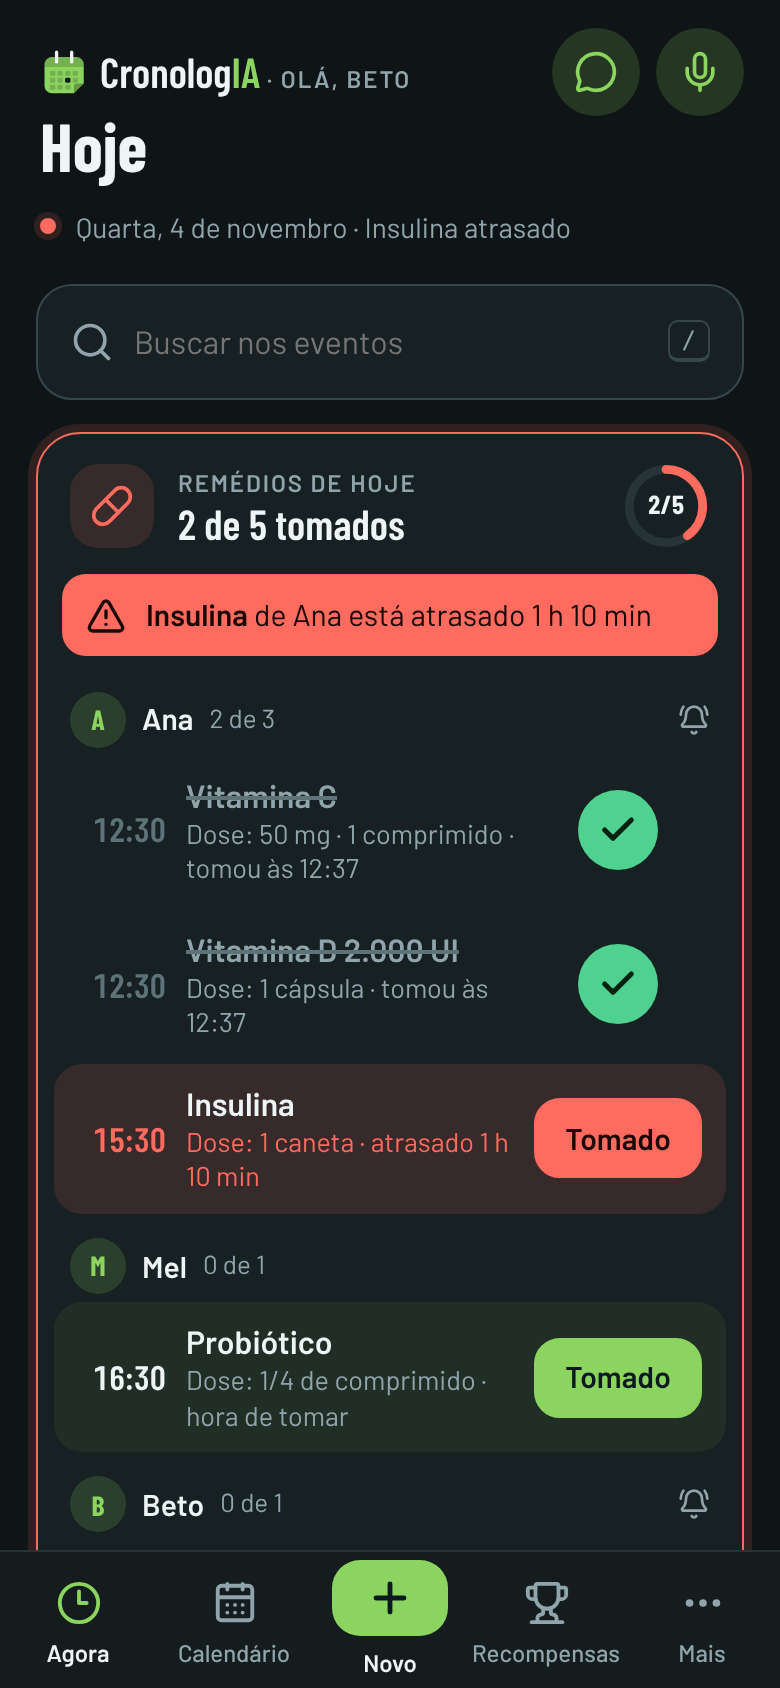
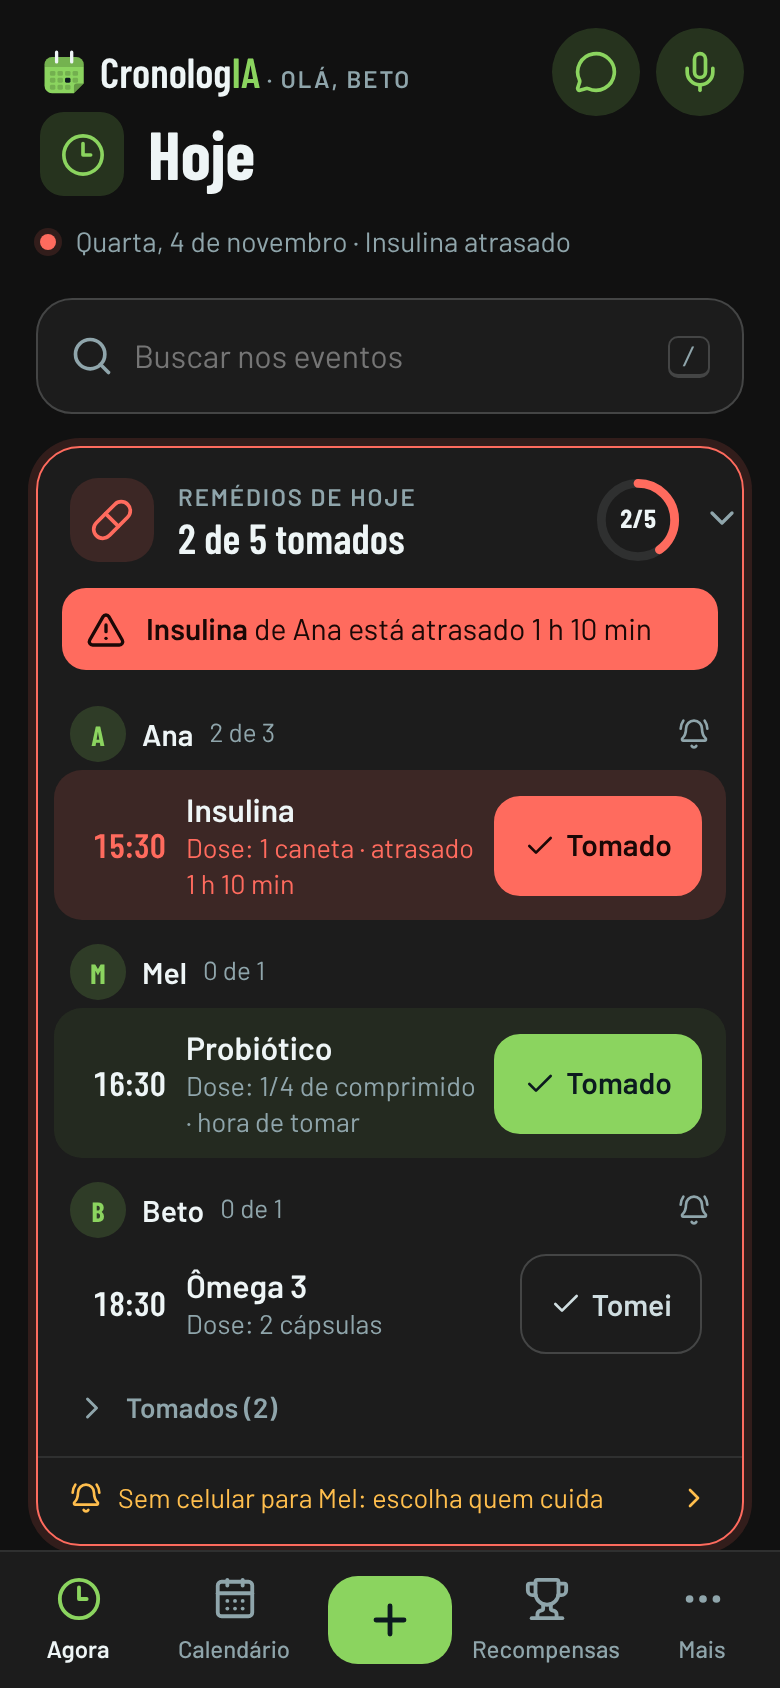
CronologIA: o README e as telas em dia (a Tela cheia, o De quem, o Selecionar e a Memória da IA)
Claude-Session: https://claude.ai/code/session_017hEteHByHThDBu4uLqG9Xn

Changed region(s): [[0.0308, 0.1848, 0.9846, 1.0], [0.0308, 0.0616, 0.7385, 0.154]]

diff --git a/README.md b/README.md
@@ -32,9 +32,9 @@ A primeira instalação leva alguns minutos, porque o app é montado no próprio
 
 ## O que tem
 
-- **Agora**, só o dia de hoje: os **remédios de hoje** de cada pessoa e pet (dose, quem toma; o atrasado em vermelho), as **contas a pagar**, o evento que está acontecendo (e quanto falta) ou o próximo, os de dia todo, a **rotina e a manutenção da casa** e as **tarefas** com prazo.
+- **Agora**, só o dia de hoje: os **remédios de hoje** de cada pessoa e pet (dose, quem toma; o atrasado em vermelho), as **contas a pagar**, o evento que está acontecendo (e quanto falta) ou o próximo, os de dia todo, a **rotina e a manutenção da casa** e as **tarefas** com prazo. Num monitor ou tablet, a **Tela cheia** vira o painel da casa (o que vem a seguir, as tarefas do dia, o placar e a folha do MemorIA).
 - **Calendário** por **mês, semana, 3 dias, dia ou lista**, com busca do último ano ao próximo. Toque num horário vazio para criar um evento ali.
-- **Modelos** em Adicionar: **Remédio** (dose, quem toma, vários horários, todo dia, dia sim e dia não, dias da semana, por N dias), **Conta a pagar**, **Rotina da casa** (com período do dia, cômodos, **Pular** e a que volta N dias depois de feita) e **Manutenção** contada a partir da última vez, com um ou vários equipamentos.
+- **Modelos** em Adicionar: **Remédio** (dose, quem toma, vários horários, todo dia, dia sim e dia não, dias da semana, por N dias), **Conta a pagar**, **Rotina da casa** (com período do dia, cômodos, **Pular** e a que volta N dias depois de feita) e **Manutenção** contada a partir da última vez, com um ou vários equipamentos. **De quem** é o compromisso: cada pessoa tem o seu calendário. Cada campo fecha num toque no título e, fechado, mostra o que foi escolhido.
 - **Tarefas do ResolvIA**: as tarefas com prazo das listas do Home Assistant aparecem na Agora e no calendário, o **Concluir** daqui conclui lá, e **Adicionar › Tarefa** cria a tarefa numa lista, com cômodos. As **manutenções e rotinas** podem ir para uma lista do ResolvIA: concluir lá vale como feito aqui, com os pontos.
 - **Cômodos e equipamentos** do [InventarIA](https://github.com/diegozapella63/inventario-ha), pelo ResolvIA: etiquetas curtas nas rotinas, manutenções e tarefas.
 - **Recompensas**: placar da casa com pontos por tarefa feita, **deméritos** que tiram pontos, pontos avulsos, quem está na frente, o prêmio da semana (ou do mês), o histórico de quem venceu e um **lembrete diário** no celular com quem está ganhando (o toque abre as Recompensas).
@@ -42,15 +42,15 @@ A primeira instalação leva alguns minutos, porque o app é montado no próprio
 - **Aviso de remédio no celular** pelo app Home Assistant, com **Tomei** e **Adiar 15 min** no aviso, e de novo se atrasar, também para quem cuida (o remédio do pet vai para o celular de alguém).
 - **Contas do GerencIA**: com o [GerencIA](https://github.com/diegozapella63/gerencia-ha) instalado, as contas e faturas aparecem aqui e o **Paguei** dá baixa lá.
 - **MemorIA no Agora**: com o [MemorIA](https://github.com/diegozapella63/memoria-ha) instalado, a anotação que vale agora e as duas próximas aparecem na Agora.
-- **CorrerIA**: com o [CorrerIA](https://github.com/diegozapella63/correria-ha), a agenda responde pelo WhatsApp, pelo Claude e pelo Gemini: o que tem hoje, criar e mudar compromissos, marcar como feito e dar pontos.
+- **CorrerIA**: com o [CorrerIA](https://github.com/diegozapella63/correria-ha), a agenda responde pelo WhatsApp, pelo Claude e pelo Gemini: o que tem hoje, criar e mudar compromissos, marcar como feito, dar pontos e ligar as férias; as rotinas e manutenções de cada cômodo entram nas **Rondas** de lá.
 - **Falar**: toque no microfone e diga o compromisso; a IA monta o evento para você conferir.
-- **Conversa com a IA**: pergunte "o que tenho hoje?" ou "quem está ganhando?", ou peça "marca dentista sexta às 15h"; cada ação aparece num cartão e só acontece quando você toca em **Fazer**.
+- **Conversa com a IA**: pergunte "o que tenho hoje?" ou "quem está ganhando?", ou peça "marca dentista sexta às 15h"; cada ação aparece num cartão e só acontece quando você toca em **Fazer**. A **Memória da IA** é uma só, da casa, compartilhada por todos os apps da família.
 - **Eventos de mensagem ou foto**: cole o convite do WhatsApp, escolha um print ou fotografe um cartão de consulta; a IA configurada no Home Assistant (Claude, OpenAI, Gemini ou Ollama) encontra data, horário e local, e você revisa. **Usar IA** desligado tira tudo o que usa IA.
 - **Criar, editar e apagar** nos calendários que permitem, com **repetição** (só este ou este e os próximos) e **Desfazer**.
 - **Arquivos .ics**: importar convites e exportar os calendários.
 - **Sensores** de remédios, rotinas, manutenção, férias e do próximo compromisso (para avisar antes), e o evento `cronologia_feito` para automações e etiquetas NFC.
 - **Dados**: exportar em ZIP, CSV ou JSON, backup em `share/cronologia`, importar, versões anteriores automáticas e começar do zero.
-- **Mais, um menu**: Calendários (nome, cor e mostrar/ocultar de cada um, sincronizados entre aparelhos), Rotinas, Recompensas, Avisos, Férias, Configurações (Integrações, Dados, Aparência e Opções) e **Sobre**.
+- **Mais, um menu**: Calendários (nome, cor e mostrar/ocultar de cada um, sincronizados entre aparelhos), Rotinas (com o **Selecionar** para mudar ou apagar várias de uma vez), Recompensas, Avisos, Férias, Configurações (Integrações, Dados, Aparência e Opções) e **Sobre**.
 - **Outlook, Google e Alexa**: o Outlook entra pelo MS365 Calendar (HACS) ou por um link .ics; o Google, pela integração oficial; e o que você pede para a Alexa aparece quando ela usa uma dessas agendas.
 - **Celular e computador**: feito para o celular; com a tela larga, barra lateral com um mês pequeno e os calendários.
 - **Tema claro e escuro** seguindo o Home Assistant, e a **Cor do dia**: a cor do app muda todo dia, a mesma em todos os apps da família (ou fica fixa na que você escolher).
